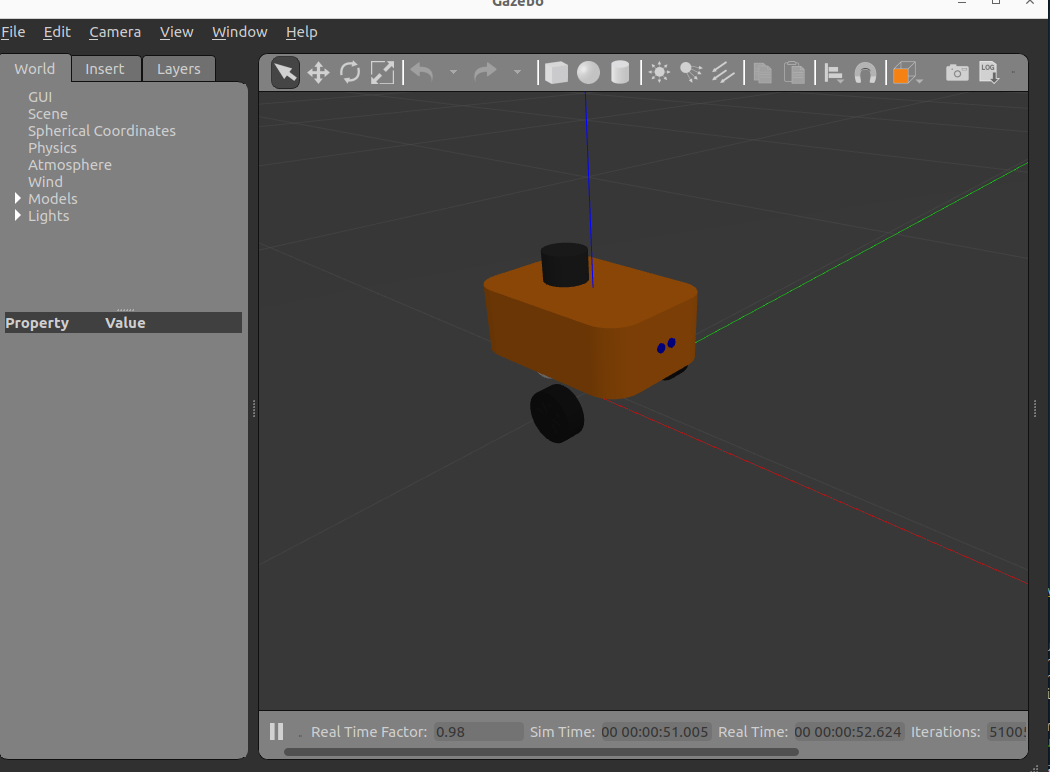
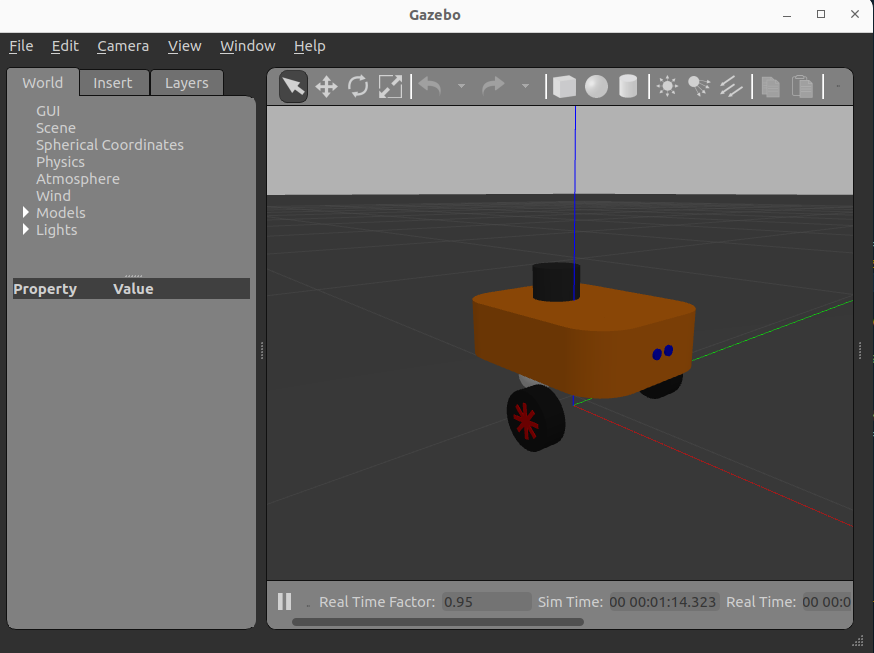
fix: solved wheel rim display problem

diff --git a/README.md b/README.md
@@ -27,7 +27,9 @@ $ ros2 launch mobo_bot_description rviz.launch.py
 $ ros2 launch mobo_bot_description sim.launch.py
 ```
 
-to spawn robot in gazebo and view in RVIZ simultaneously:
+**to spawn robot in gazebo and view in RVIZ simultaneously:**
+
+![mobo_obot](./docs/mobo_bot_sim.gif)
 
 ```shell
 $ ros2 launch mobo_bot_description sim_and_rviz.launch.py
